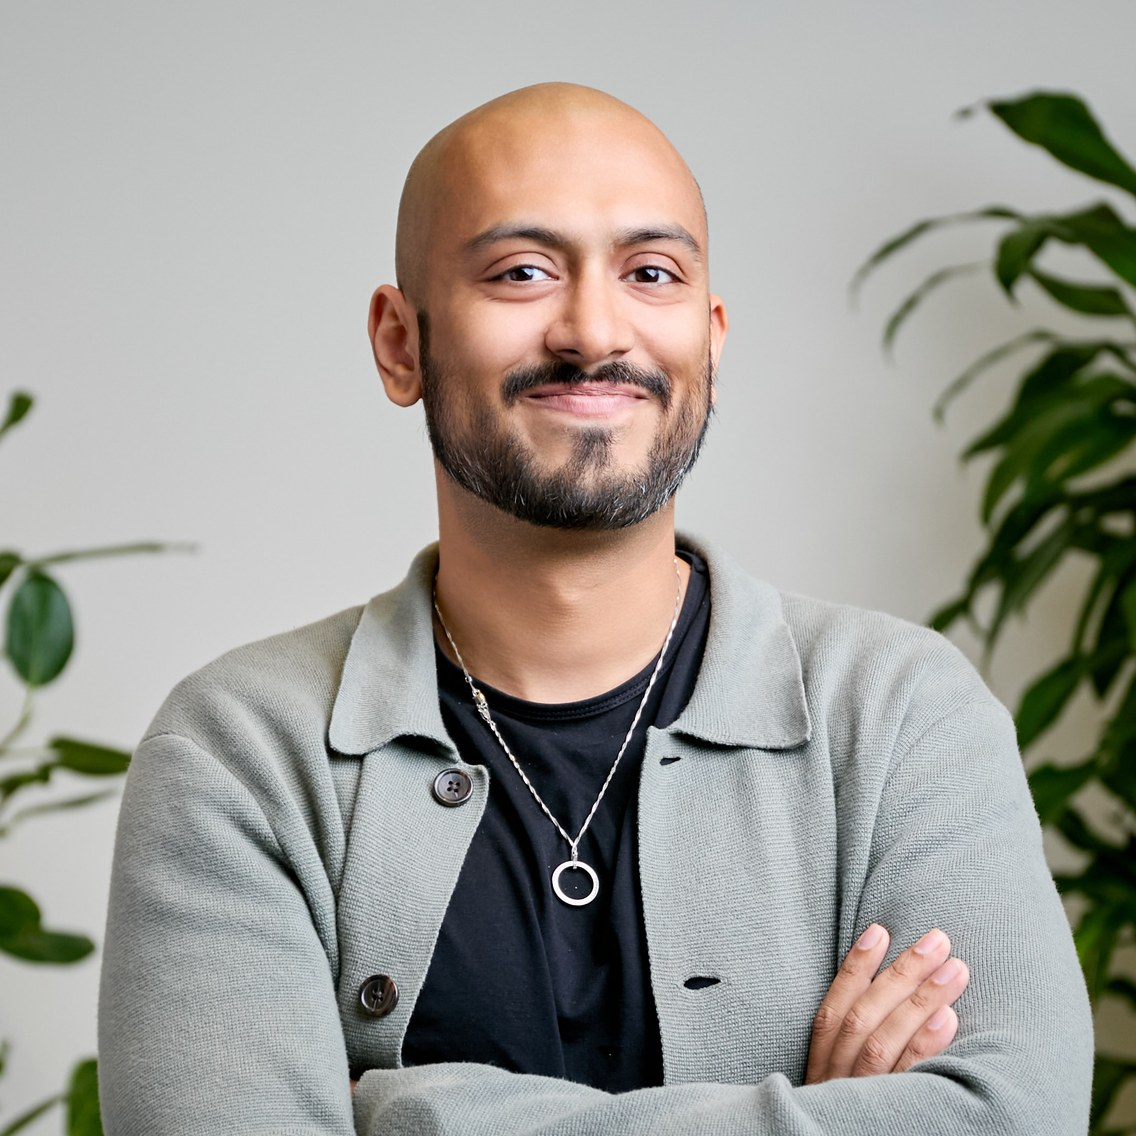
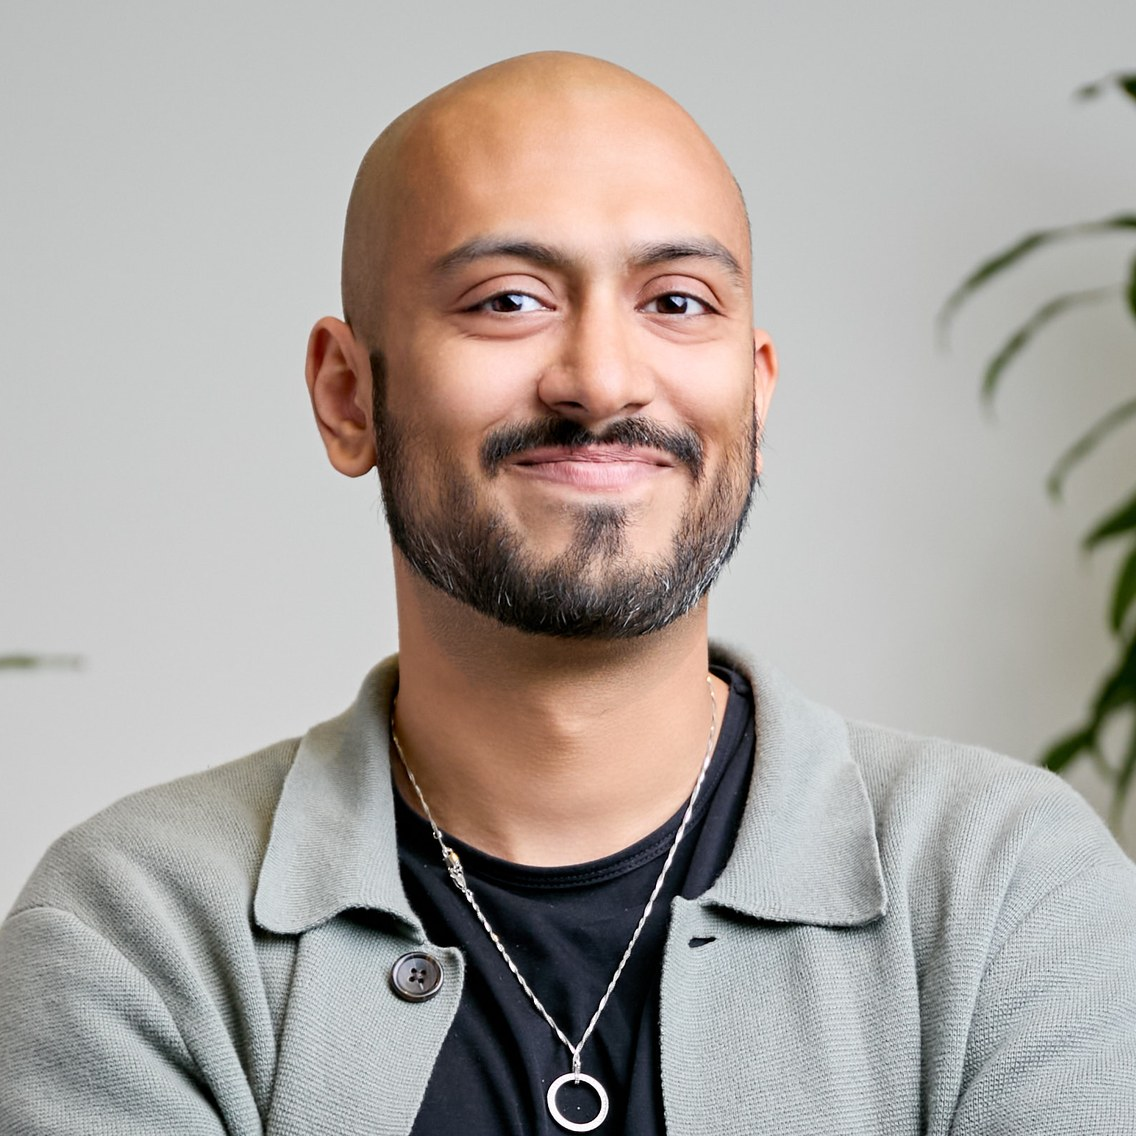
Site feedback round: tighter headshot, compact Highlights + full Timeline, TOC nav, talk embed, email obfuscation
- Highlights trimmed to 7 milestones (ICML 2026 Oral, GPT-Live mention, Build Hour, τ-voice, xAI, GPT-5, τ²-bench)
- New Timeline section with all items; milestones starred
- Minimal fixed left table of contents with scrollspy
- Embedded OpenAI Build Hour talk (Featured Talk section)
- Email obfuscated against scrapers; removed from JSON-LD
- Leading labs named inline (OpenAI, Google, Anthropic, xAI, Moonshot)
- Added x.com/sohmray to sameAs entity links

diff --git a/index.html b/index.html
@@ -33,7 +33,6 @@
         "url": "https://sohamray19.github.io/",
         "image": "https://sohamray19.github.io/headshot.jpg",
         "jobTitle": "AI Research Engineer",
-        "email": "mailto:[email redacted]",
         "description": "Research engineer at Sierra specializing in task-oriented dialogue and voice-agent benchmarking. Co-creator of τ²-Bench, τ-voice, and μ-Bench.",
         "worksFor": {
           "@type": "Organization",
@@ -54,6 +53,7 @@
         ],
         "sameAs": [
           "https://www.wikidata.org/wiki/Q140477064",
+          "https://x.com/sohmray",
           "https://sierra.ai/author/soham-ray",
           "https://github.com/soham-sierra",
           "https://github.com/sohamray19",
@@ -65,9 +65,18 @@
     }
     </script>
 
-    <link rel="stylesheet" href="styles.css?v=2026-06-04" />
+    <link rel="stylesheet" href="styles.css?v=2026-07-09" />
   </head>
   <body>
+    <nav class="toc" aria-label="Contents">
+      <a href="#bio">About</a>
+      <a href="#highlights">Highlights</a>
+      <a href="#timeline">Timeline</a>
+      <a href="#talk">Talk</a>
+      <a href="#publications">Publications</a>
+      <a href="#writing">Writing</a>
+      <a href="#experience">Experience</a>
+    </nav>
     <main>
       <header>
         <img src="headshot.jpg" alt="Soham Ray" class="headshot" />
@@ -75,10 +84,10 @@
           <h1>Soham Ray</h1>
           <p class="title">AI Research, Sierra</p>
           <p class="contact">
-            <a href="mailto:[email redacted]">
+            <span class="email">
               <svg class="icon" viewBox="0 0 24 24" fill="none" stroke="currentColor" stroke-width="2" stroke-linecap="round" stroke-linejoin="round" aria-hidden="true"><rect width="20" height="16" x="2" y="4" rx="2"/><path d="m22 7-8.97 5.7a1.94 1.94 0 0 1-2.06 0L2 7"/></svg>
-              [email redacted]
-            </a>
+              sohamray19 &lt;at&gt; gmail &lt;dot&gt; com
+            </span>
             <span class="sep">·</span>
             <a href="resume.pdf">
               <svg class="icon" viewBox="0 0 24 24" fill="none" stroke="currentColor" stroke-width="2" stroke-linecap="round" stroke-linejoin="round" aria-hidden="true"><path d="M14 2H6a2 2 0 0 0-2 2v16a2 2 0 0 0 2 2h12a2 2 0 0 0 2-2V8z"/><polyline points="14 2 14 8 20 8"/><line x1="16" x2="8" y1="13" y2="13"/><line x1="16" x2="8" y1="17" y2="17"/></svg>
@@ -114,7 +123,8 @@
           (<a href="https://sierra.ai/blog/tau-voice-benchmarking-real-time-voice-agents-on-real-world-tasks">τ-voice</a>) —
           and earlier co-built
           <a href="https://github.com/sierra-research/tau2-bench">τ²-Bench</a>,
-          our text-agent benchmark. All three are used by leading labs to
+          our text-agent benchmark. All three are used by leading labs
+          (OpenAI, Google, Anthropic, xAI, Moonshot) to
           measure modelling progress in complex, real-world conditions. I've
           been fortunate to learn from
           Dr. <a href="https://scholar.google.com/citations?user=RpPIx5AAAAAJ&amp;hl=en">Victor Barres</a>
@@ -140,15 +150,66 @@
 
       <section id="highlights">
         <h2>Highlights</h2>
+        <ul class="timeline">
+          <li class="milestone">
+            <span class="date">Jul 8, 2026</span>
+            <span class="event">Mentioned in OpenAI's <a href="https://openai.com/index/introducing-gpt-live/">Introducing GPT-Live</a> announcement of its full-duplex voice models.</span>
+          </li>
+          <li class="milestone">
+            <span class="date">Jul 6, 2026</span>
+            <span class="event">τ²-bench selected for an <strong>Oral at ICML 2026</strong> — top 0.7% of ~24,000 submissions; featured in <a href="https://aifront-page.com/indian-researchers-icml-2026-orals-spotlight/">AI Front Page's spotlight</a>.</span>
+          </li>
+          <li class="milestone">
+            <span class="date">May 13, 2026</span>
+            <span class="event">Featured in OpenAI's <a href="https://www.youtube.com/watch?v=qGS9Ghnq1RU">Build Hour: GPT-Realtime-2</a>, presenting τ-voice findings.</span>
+            <a class="thumb-link" href="https://www.youtube.com/watch?v=qGS9Ghnq1RU" aria-label="OpenAI Build Hour"><img class="thumb" src="assets/highlights/openai-build-hour_thumb.jpg" alt="OpenAI Build Hour" loading="lazy"/></a>
+          </li>
+          <li class="milestone">
+            <span class="date">May 1, 2026</span>
+            <span class="event">Released <a href="https://sierra.ai/blog/tau-voice-benchmarking-real-time-voice-agents-on-real-world-tasks">τ-voice</a>, the first benchmark for full-duplex voice agents on real customer-service tasks.</span>
+            <a class="thumb-link" href="https://sierra.ai/blog/tau-voice-benchmarking-real-time-voice-agents-on-real-world-tasks" aria-label="τ-voice"><img class="thumb" src="assets/highlights/tau-voice_thumb.jpg" alt="τ-voice" loading="lazy"/></a>
+          </li>
+          <li class="milestone">
+            <span class="date">Apr 23, 2026</span>
+            <span class="event">xAI announced <a href="https://x.com/xai/status/2047441173569216721">Grok Voice Think Fast 1.0</a> — top spot on the τ-voice leaderboard (418M views).</span>
+            <a class="thumb-link" href="https://x.com/xai/status/2047441173569216721" aria-label="xAI Grok Voice"><img class="thumb" src="assets/highlights/xai-grok-voice_thumb.jpg" alt="xAI Grok Voice" loading="lazy"/></a>
+          </li>
+          <li class="milestone">
+            <span class="date">Aug 7, 2025</span>
+            <span class="event"><a href="https://openai.com/index/introducing-gpt-5-for-developers/">GPT-5 launched by OpenAI</a>, with τ²-Bench featured in the announcement; GPT-5 scored 96.7% on τ²-Bench telecom.</span>
+            <a class="thumb-link" href="https://openai.com/index/introducing-gpt-5-for-developers/" aria-label="GPT-5 launch"><img class="thumb" src="assets/highlights/gpt-5_thumb.jpg" alt="GPT-5 launch" loading="lazy"/></a>
+          </li>
+          <li class="milestone">
+            <span class="date">Jun 10, 2025</span>
+            <span class="event">Published <a href="https://sierra.ai/blog/benchmarking-agents-in-collaborative-real-world-scenarios">τ²-bench</a>, the first dual-control benchmark for collaborative agent tasks (<a href="https://arxiv.org/abs/2506.07982">arXiv 2506.07982</a>).</span>
+            <a class="thumb-link" href="https://sierra.ai/blog/benchmarking-agents-in-collaborative-real-world-scenarios" aria-label="τ²-bench launch"><img class="thumb" src="assets/highlights/tau2-bench-blog_thumb.jpg" alt="τ²-bench launch" loading="lazy"/></a>
+          </li>
+        </ul>
+      </section>
+
+      <section id="timeline">
+        <h2>Timeline</h2>
         <div class="timeline-wrap">
           <div class="timeline-scroll">
             <ul class="timeline">
+            <li class="milestone">
+              <span class="date">Jul 8, 2026</span>
+              <span class="event">Mentioned in OpenAI's <a href="https://openai.com/index/introducing-gpt-live/">Introducing GPT-Live</a> announcement of its full-duplex voice models.</span>
+            </li>
+            <li class="milestone">
+              <span class="date">Jul 6, 2026</span>
+              <span class="event">τ²-bench selected for an <strong>Oral at ICML 2026</strong> — top 0.7% of ~24,000 submissions; featured in <a href="https://aifront-page.com/indian-researchers-icml-2026-orals-spotlight/">AI Front Page's spotlight</a> on Indian researchers.</span>
+            </li>
+            <li>
+              <span class="date">Jun 29, 2026</span>
+              <span class="event">Published <a href="https://x.com/sohmray/article/2071630956562379143">a new article</a> on X.</span>
+            </li>
             <li>
               <span class="date">May 18, 2026</span>
               <span class="event">Published <a href="https://sierra.ai/blog/voice-ai-is-only-as-good-as-what-it-hears">Voice AI is only as good as what it hears</a> on Sierra's transcription platform.</span>
               <a class="thumb-link" href="https://sierra.ai/blog/voice-ai-is-only-as-good-as-what-it-hears" aria-label="Voice AI blog"><img class="thumb" src="assets/highlights/voice-ai-only-as-good_thumb.jpg" alt="Voice AI blog" loading="lazy"/></a>
             </li>
-            <li>
+            <li class="milestone">
               <span class="date">May 13, 2026</span>
               <span class="event">Featured in OpenAI's <a href="https://www.youtube.com/watch?v=qGS9Ghnq1RU">Build Hour: GPT-Realtime-2</a>, presenting τ-voice findings.</span>
               <a class="thumb-link" href="https://www.youtube.com/watch?v=qGS9Ghnq1RU" aria-label="OpenAI Build Hour"><img class="thumb" src="assets/highlights/openai-build-hour_thumb.jpg" alt="OpenAI Build Hour" loading="lazy"/></a>
@@ -158,32 +219,32 @@
               <span class="event"><a href="https://www.linkedin.com/posts/artificial-analysis_announcing-agentic-performance-benchmarking-activity-7460001258456682497-d973">Artificial Analysis</a> launches τ-voice agentic performance benchmarking on its <a href="https://artificialanalysis.ai/speech-to-speech">Speech-to-Speech leaderboard</a>.</span>
               <a class="thumb-link" href="https://artificialanalysis.ai/speech-to-speech" aria-label="Artificial Analysis Speech-to-Speech"><img class="thumb" src="assets/highlights/aa-speech_thumb.jpg" alt="Artificial Analysis Speech-to-Speech" loading="lazy"/></a>
             </li>
-            <li>
+            <li class="milestone">
               <span class="date">May 1, 2026</span>
               <span class="event">Released <a href="https://sierra.ai/blog/tau-voice-benchmarking-real-time-voice-agents-on-real-world-tasks">τ-voice</a>, the first benchmark for full-duplex voice agents on real customer-service tasks.</span>
               <a class="thumb-link" href="https://sierra.ai/blog/tau-voice-benchmarking-real-time-voice-agents-on-real-world-tasks" aria-label="τ-voice"><img class="thumb" src="assets/highlights/tau-voice_thumb.jpg" alt="τ-voice" loading="lazy"/></a>
             </li>
-            <li>
-              <span class="date">April 23, 2026</span>
+            <li class="milestone">
+              <span class="date">Apr 23, 2026</span>
               <span class="event">xAI announced <a href="https://x.com/xai/status/2047441173569216721">Grok Voice Think Fast 1.0</a> — top spot on the τ-voice leaderboard (418M views).</span>
               <a class="thumb-link" href="https://x.com/xai/status/2047441173569216721" aria-label="xAI Grok Voice"><img class="thumb" src="assets/highlights/xai-grok-voice_thumb.jpg" alt="xAI Grok Voice" loading="lazy"/></a>
             </li>
             <li>
-              <span class="date">April 20, 2026</span>
+              <span class="date">Apr 20, 2026</span>
               <span class="event">Released <a href="https://sierra.ai/blog/mu-bench-an-open-multilingual-transcription-benchmark">μ-Bench</a>, an open multilingual transcription benchmark across 5 locales.</span>
               <a class="thumb-link" href="https://sierra.ai/blog/mu-bench-an-open-multilingual-transcription-benchmark" aria-label="μ-Bench"><img class="thumb" src="assets/highlights/mu-bench_thumb.jpg" alt="μ-Bench" loading="lazy"/></a>
             </li>
             <li>
-              <span class="date">April 13, 2026</span>
+              <span class="date">Apr 13, 2026</span>
               <span class="event"><a href="https://x.com/tulseedoshi/status/2043705774308733131">Tulsee Doshi</a> and <a href="https://x.com/officiallogank/status/2042672082425712935">Logan Kilpatrick</a> (Google) announce Gemini 3.1 Flash Live tops the τ-voice leaderboard.</span>
               <a class="thumb-link" href="https://x.com/tulseedoshi/status/2043705774308733131" aria-label="Tulsee Doshi tweet"><img class="thumb" src="assets/highlights/tulsee-tau-voice_thumb.jpg" alt="Tulsee Doshi tweet" loading="lazy"/></a>
             </li>
             <li>
-              <span class="date">April 13, 2026</span>
+              <span class="date">Apr 13, 2026</span>
               <span class="event"><a href="https://github.com/sierra-research/tau2-bench/stargazers">τ²-bench</a> crosses 1,000 stars on GitHub.</span>
             </li>
             <li>
-              <span class="date">March 18, 2026</span>
+              <span class="date">Mar 18, 2026</span>
               <span class="event">Released <a href="https://sierra.ai/blog/bench-advancing-agent-benchmarking-to-knowledge-and-voice">τ³-Bench</a>, extending agent evaluation to knowledge retrieval and voice.</span>
               <a class="thumb-link" href="https://sierra.ai/blog/bench-advancing-agent-benchmarking-to-knowledge-and-voice" aria-label="τ³-Bench"><img class="thumb" src="assets/highlights/tau3-bench_thumb.jpg" alt="τ³-Bench" loading="lazy"/></a>
             </li>
@@ -232,7 +293,7 @@
               <span class="event"><a href="https://www.anthropic.com/news/claude-sonnet-4-5">Claude Sonnet 4.5</a> released by Anthropic; τ²-Bench used in evaluation.</span>
               <a class="thumb-link" href="https://www.anthropic.com/news/claude-sonnet-4-5" aria-label="Claude Sonnet 4.5"><img class="thumb" src="assets/highlights/claude-sonnet-4-5_thumb.jpg" alt="Claude Sonnet 4.5" loading="lazy"/></a>
             </li>
-            <li>
+            <li class="milestone">
               <span class="date">Aug 7, 2025</span>
               <span class="event"><a href="https://openai.com/index/introducing-gpt-5-for-developers/">GPT-5 launched by OpenAI</a>, with τ²-Bench featured in the announcement; GPT-5 scored 96.7% on τ²-Bench telecom.</span>
               <a class="thumb-link" href="https://openai.com/index/introducing-gpt-5-for-developers/" aria-label="GPT-5 launch"><img class="thumb" src="assets/highlights/gpt-5_thumb.jpg" alt="GPT-5 launch" loading="lazy"/></a>
@@ -242,7 +303,7 @@
               <span class="event"><a href="https://moonshotai.github.io/Kimi-K2/">Kimi K2</a> released by Moonshot AI; scored 66.1 on τ²-Bench.</span>
               <a class="thumb-link" href="https://moonshotai.github.io/Kimi-K2/" aria-label="Kimi K2"><img class="thumb" src="assets/highlights/kimi-k2_thumb.jpg" alt="Kimi K2" loading="lazy"/></a>
             </li>
-            <li>
+            <li class="milestone">
               <span class="date">Jun 10, 2025</span>
               <span class="event">Published <a href="https://sierra.ai/blog/benchmarking-agents-in-collaborative-real-world-scenarios">τ²-bench</a>, the first dual-control benchmark for collaborative agent tasks (<a href="https://arxiv.org/abs/2506.07982">arXiv 2506.07982</a>).</span>
               <a class="thumb-link" href="https://sierra.ai/blog/benchmarking-agents-in-collaborative-real-world-scenarios" aria-label="τ²-bench launch"><img class="thumb" src="assets/highlights/tau2-bench-blog_thumb.jpg" alt="τ²-bench launch" loading="lazy"/></a>
@@ -252,12 +313,12 @@
               <span class="event">Joined <a href="https://sierra.ai">Sierra</a> as Senior Research Engineer under <a href="https://www.cs.princeton.edu/~karthikn/">Karthik Narasimhan</a>.</span>
             </li>
             <li>
-              <span class="date">2024</span>
-              <span class="event">Filed patent application for <strong>SAGA</strong>, a system for conversational AI agents to learn from live agent supervision (patent pending).</span>
-            </li>
-            <li>
               <span class="date">Sep 2024</span>
               <span class="event">Published <a href="https://arxiv.org/abs/2409.03717">Sample-Efficient Diffusion for Text-to-Speech Synthesis</a> at Interspeech 2024.</span>
+            </li>
+            <li>
+              <span class="date">2024</span>
+              <span class="event">Filed patent application for <strong>SAGA</strong>, a system for conversational AI agents to learn from live agent supervision (patent pending).</span>
             </li>
             <li>
               <span class="date">Sep 2023</span>
@@ -278,6 +339,20 @@
             scroll for more
           </div>
         </div>
+        <p class="timeline-legend"><span class="legend-star">★</span> highlight</p>
+      </section>
+
+      <section id="talk">
+        <h2>Featured Talk</h2>
+        <div class="video-embed">
+          <iframe
+            src="https://www.youtube-nocookie.com/embed/qGS9Ghnq1RU"
+            title="OpenAI Build Hour: GPT-Realtime-2 — presenting τ-voice"
+            loading="lazy"
+            allow="accelerometer; autoplay; clipboard-write; encrypted-media; gyroscope; picture-in-picture; web-share"
+            allowfullscreen></iframe>
+        </div>
+        <p class="video-caption">Presenting τ-voice findings at OpenAI's <a href="https://www.youtube.com/watch?v=qGS9Ghnq1RU">Build Hour: GPT-Realtime-2</a> · May 2026</p>
       </section>
 
       <section id="publications">
@@ -488,8 +563,32 @@
       </section>
 
       <footer>
-        <p>Last updated: May 19, 2026</p>
+        <p>Last updated: July 9, 2026</p>
       </footer>
     </main>
+    <script>
+      // Scrollspy: highlight the TOC link for the section in view
+      (function () {
+        var links = document.querySelectorAll(".toc a");
+        var map = new Map();
+        links.forEach(function (l) {
+          var s = document.querySelector(l.getAttribute("href"));
+          if (s) map.set(s, l);
+        });
+        var obs = new IntersectionObserver(
+          function (entries) {
+            entries.forEach(function (e) {
+              if (e.isIntersecting) {
+                links.forEach(function (l) { l.classList.remove("active"); });
+                var link = map.get(e.target);
+                if (link) link.classList.add("active");
+              }
+            });
+          },
+          { rootMargin: "-30% 0px -60% 0px" }
+        );
+        map.forEach(function (_l, s) { obs.observe(s); });
+      })();
+    </script>
   </body>
 </html>

diff --git a/styles.css b/styles.css
@@ -18,6 +18,10 @@
   box-sizing: border-box;
 }
 
+html {
+  scroll-behavior: smooth;
+}
+
 html,
 body {
   margin: 0;
@@ -118,6 +122,42 @@ a:hover {
 
 section {
   margin-top: 2.75rem;
+  scroll-margin-top: 2rem;
+}
+
+/* Minimal left table of contents (wide screens only) */
+.toc {
+  position: fixed;
+  top: 50%;
+  left: calc(50% - var(--content-width) / 2 - 8.5rem);
+  transform: translateY(-50%);
+  display: flex;
+  flex-direction: column;
+  gap: 0.5rem;
+  font-size: 0.78rem;
+  letter-spacing: 0.04em;
+  z-index: 10;
+}
+
+.toc a {
+  color: var(--meta);
+  border-bottom: none;
+}
+
+.toc a:hover {
+  color: var(--accent-hover);
+  border-bottom: none;
+}
+
+.toc a.active {
+  color: var(--accent);
+  font-weight: 600;
+}
+
+@media (max-width: 1279px) {
+  .toc {
+    display: none;
+  }
 }
 
 h2 {
@@ -391,6 +431,50 @@ h2 {
   object-fit: cover;
   border: 1px solid var(--border);
   border-radius: 6px;
+}
+
+/* Milestone rows: starred + subtly emphasized */
+.timeline > li.milestone .date::after {
+  content: " ★";
+  color: var(--accent);
+  font-size: 0.8em;
+}
+
+.timeline > li.milestone .event {
+  font-weight: 500;
+}
+
+.timeline-legend {
+  margin: 0.6rem 0 0;
+  color: var(--meta);
+  font-size: 0.78rem;
+}
+
+.timeline-legend .legend-star {
+  color: var(--accent);
+}
+
+/* Featured talk embed */
+.video-embed {
+  aspect-ratio: 16 / 9;
+  max-width: 640px;
+  border-radius: 8px;
+  overflow: hidden;
+  border: 1px solid var(--border);
+  background: var(--border);
+}
+
+.video-embed iframe {
+  width: 100%;
+  height: 100%;
+  border: 0;
+  display: block;
+}
+
+.video-caption {
+  margin: 0.6rem 0 0;
+  color: var(--meta);
+  font-size: 0.85rem;
 }
 
 .pubs .cites {